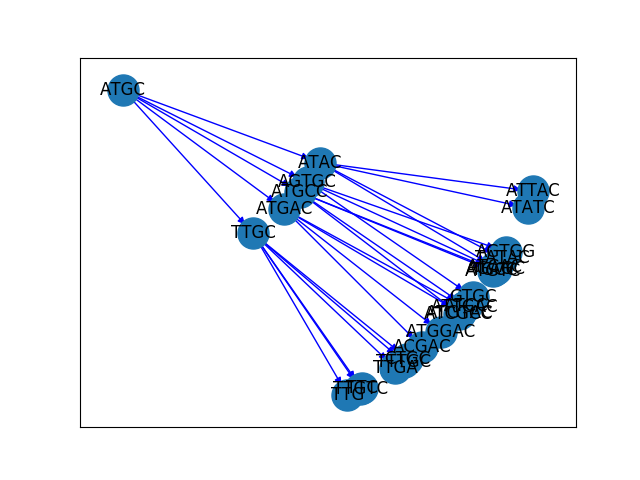
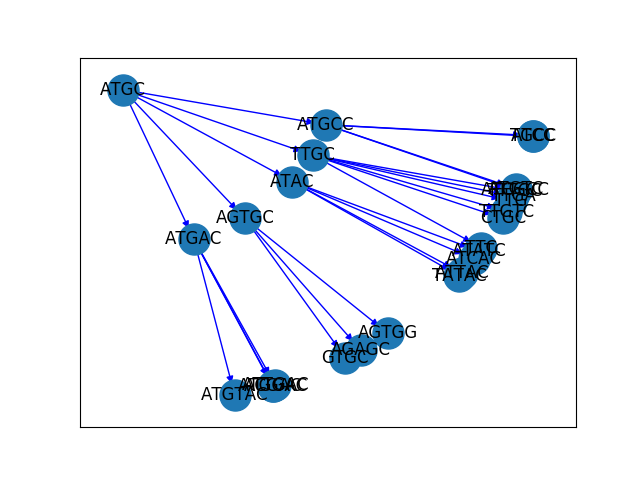
new similarity graphs

Changed region(s): [[0.1875, 0.1875, 0.875, 0.875], [0.25, 0.375, 0.2812, 0.4375]]

diff --git a/plot_similarity_graph.py b/plot_similarity_graph.py
@@ -4,55 +4,110 @@ plt.switch_backend('agg')
 from random import choice
 from string import ascii_uppercase
 from tqdm import tqdm
+import random
 
-KMER_LENGTH=2
-SKETCH_SIZE=10
+KMER_LENGTH=3
+SKETCH_SIZE=50
 
-def gen_string_universe(length_smallest, length_largest, n):
-    s = [[[''.join(choice(['A', 'C', 'T', 'G']) for _ in range(l))] for _ in range(n)] for l in range(length_smallest, length_largest + 1)]
+BASES = ['A', 'C', 'T', 'G']
+def mutate(item, bases):
+    pos = random.randint(0, len(item))
+    num = random.randint(0, 2)
+    if num == 0:
+        #insert
+        return (item[:pos] + random.choice(bases) + item[pos:])
+    elif num == 1:
+        #delete
+        return (item[:pos] + item[pos+1:])
+    else:
+        #mismatch
+        b = random.choice(bases)
+        return (item[:pos] + b + item[pos+1:])
+
+    
+def gen_string_universe(length_smallest, length_largest, n, num_dups):
+    s = [[[''.join(choice(BASES) for _ in range(l))] for _ in range(n)] for l in range(length_smallest, length_largest + 1)]
     s = [inner for outer in s for inner in outer]
     s = [inner for outer in s for inner in outer]
+    for i in range(num_dups):
+        new = choice(s)
+        s.append(mutate(new, BASES))
     return s
 
 def get_edit_distance_res(g1, g2):
-	'''get the edit distance for every genome parit in synthetic data'''
-	return edit_similarity(g1, g2)
+    '''get the edit distance for every genome parit in synthetic data'''
+    return edit_similarity(g1, g2)
 
 
-def get_minhash_res(g1, g2):
-	'''get the edit distance for every genome parit in synthetic data'''
-	return jaccard_hash(minhash(string_to_kmers(g1, KMER_LENGTH), SKETCH_SIZE), minhash(string_to_kmers(g2, KMER_LENGTH), SKETCH_SIZE))
+def get_minhash_res(g1, g2, sketch_size=SKETCH_SIZE):
+    '''get the edit distance for every genome parit in synthetic data'''
+    return jaccard_hash(minhash(string_to_kmers(g1, KMER_LENGTH), sketch_size), minhash(string_to_kmers(g2, KMER_LENGTH), sketch_size))
 
 def get_weighted_minhash_res(g1, g2):
-	'''get the edit distance for every genome parit in synthetic data'''
-	return weighted_jaccard_hash(weighted_minhash(string_to_kmers(g1, KMER_LENGTH), SKETCH_SIZE), weighted_minhash(string_to_kmers(g2, KMER_LENGTH), SKETCH_SIZE))
+    '''get the edit distance for every genome parit in synthetic data'''
+    return weighted_jaccard_hash(weighted_minhash(string_to_kmers(g1, KMER_LENGTH), SKETCH_SIZE), weighted_minhash(string_to_kmers(g2, KMER_LENGTH), SKETCH_SIZE))
 
 def get_order_minhash_res(g1, g2):
-	'''get the edit distance for every genome parit in synthetic data'''
-	return hamming_similarity(order_minhash(string_to_kmers(g1, KMER_LENGTH), SKETCH_SIZE), order_minhash(string_to_kmers(g2, KMER_LENGTH), SKETCH_SIZE))
+    '''get the edit distance for every genome parit in synthetic data'''
+    s1 = order_minhash(string_to_kmers(g1, KMER_LENGTH), SKETCH_SIZE)
+    s2 = order_minhash(string_to_kmers(g2, KMER_LENGTH), SKETCH_SIZE)
 
-N = 100
-genome = gen_string_universe(5, 10, 5)
-
-edit_dis_list = []
-minhash_list = []
-weighted_minhash_list = []
-order_minhash_list = []
-
-for _ in tqdm(range(5*N)):
-	g1 = choice(genome)
-	g2 = choice(genome)
-	edit_dis_list.append(get_edit_distance_res(g1, g2))
-	minhash_list.append(get_minhash_res(g1, g2))
-	weighted_minhash_list.append(get_weighted_minhash_res(g1, g2))
-	order_minhash_list.append(get_order_minhash_res(g1, g2))
+    s1 = [hash(tuple(x)) for x in s1]
+    s2 = [hash(tuple(x)) for x in s2]
+    return edit_similarity(s1, s2)
 
 
-plt.scatter(edit_dis_list, minhash_list, s=1)
-plt.scatter(edit_dis_list, weighted_minhash_list, s=1)
-plt.scatter(edit_dis_list, order_minhash_list, s=1)
-plt.title('Comparison of similarity estimators with true edit similarity')
-plt.legend(['MinHash', 'Weighted MinHash', 'Order MinHash'])
-plt.ylabel('Similarity estimate')
-plt.xlabel('True edit similarity')
-plt.savefig('similarity_graph.png')
+def gen_methods_comparison():
+    N = 100
+    genome = gen_string_universe(10, 20, 5, 5000)
+
+    edit_dis_list = []
+    minhash_list = []
+    weighted_minhash_list = []
+    order_minhash_list = []
+
+    for _ in tqdm(range(250*N)):
+        g1 = choice(genome)
+        g2 = choice(genome)
+        edit_dis_list.append(get_edit_distance_res(g1, g2))
+        minhash_list.append(get_minhash_res(g1, g2))
+        weighted_minhash_list.append(get_weighted_minhash_res(g1, g2))
+        order_minhash_list.append(get_order_minhash_res(g1, g2))
+
+    plt.scatter(edit_dis_list, minhash_list, s=0.5)
+    plt.scatter(edit_dis_list, weighted_minhash_list, s=0.5)
+    plt.scatter(edit_dis_list, order_minhash_list, s=0.5)
+    plt.title('Comparison of similarity estimators with true edit similarity')
+    plt.legend(['MinHash', 'Weighted MinHash', 'Order MinHash'])
+    plt.ylabel('Similarity estimate')
+    plt.xlabel('True edit similarity')
+    plt.savefig('similarity_graph.png')
+def gen_sketch_size_comparison():
+    
+    N = 20
+    genome = gen_string_universe(30, 40, N, N*1000)
+
+    sketch_size_range = [2**i for i in range(1, 7)]
+    vals = [[] for _ in sketch_size_range]
+    edit_dis_list = []
+
+    for _ in tqdm(range(5000)):
+        g1 = choice(genome)
+        g2 = choice(genome)
+        edit_dis_list.append(get_edit_distance_res(g1, g2))
+        for i, sketch_size in enumerate(sketch_size_range):
+            vals[i].append(get_minhash_res(g1, g2, sketch_size=sketch_size))
+    for distances in vals:
+        plt.scatter(edit_dis_list, distances, s=1)
+    plt.title('Varying sketch size')
+    plt.legend(['MinHash k={}'.format(k) for k in sketch_size_range])
+    plt.ylabel('Similarity estimate')
+    plt.xlabel('True edit similarity')
+    plt.savefig('sketch_size_comparison.png') 
+
+def main():
+    gen_methods_comparison()
+    gen_sketch_size_comparison()
+
+if __name__=="__main__":
+    main()
